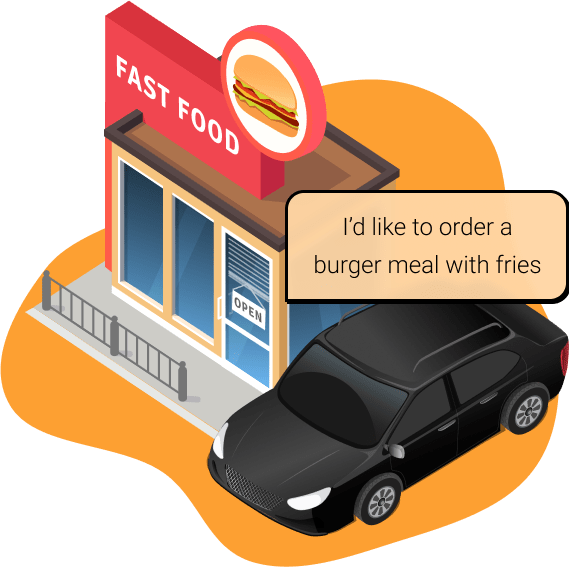
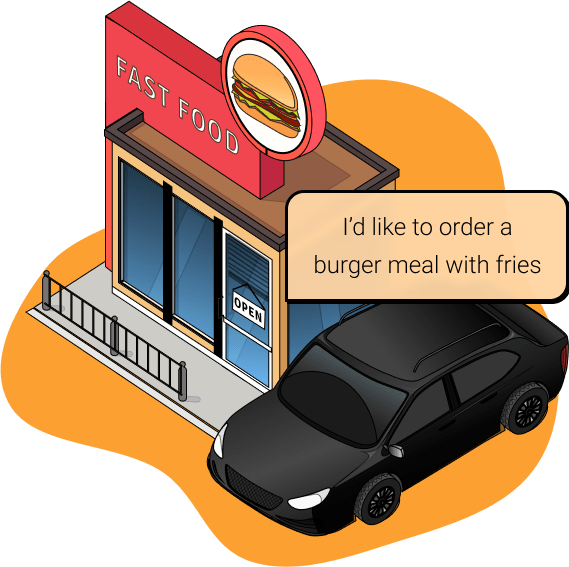
Images and styling updated

diff --git a/style.css b/style.css
@@ -73,19 +73,21 @@ h1 {
   font-size: clamp(2.25rem, 1.783vw + 1.86rem, 4rem);
   line-height: clamp(3.375rem, 1.86vw + 2.968rem, 5.2rem);
   font-weight: 600;
-  width: min(90%, 20ch);
+  max-width: 20ch;
 }
 
 h2 {
-  font-size: clamp(2.25rem, 1.783vw + 1.86rem, 4rem);
-  line-height: clamp(3.375rem, 1.86vw + 2.968rem, 5.2rem);
+  font-size: clamp(1.75rem, 1.235vw + 1.519rem, 3rem);
+  line-height: clamp(2.625rem, 1.259vw + 2.389rem, 3.9rem);
   font-weight: 600;
+  max-width: 28ch;
 }
 
 h3 {
   font-size: clamp(1.5rem, 0.51vw + 1.389rem, 2rem);
   line-height: clamp(2.4rem, 0.408vw + 2.311rem, 2.8rem);
   font-weight: 500;
+  max-width: 17ch;
 }
 
 h4 {
@@ -186,12 +188,14 @@ section {
   grid-template-columns: repeat(auto-fit, minmax(250px, 1fr));
   justify-items: center;
   gap: 2rem;
+  width: 100%;
 }
 
 .grid-2 {
   display: grid;
-  grid-template-columns: repeat(auto-fit, minmax(350px, 1fr));
+  grid-template-columns: repeat(auto-fit, minmax(300px, 1fr));
   gap: 2rem;
+  width: 100%;
 }
 
 .flex-row {
@@ -204,6 +208,10 @@ section {
   justify-self: end;
 }
 
+.grid-center {
+  display: grid;
+  place-items: center;;
+}
 
 
 /* -----------Header Style------------*/

diff --git a/index.html b/index.html
@@ -129,7 +129,7 @@
         </section>
 
         <section id="problems" class="wrapper">
-            <div class="boxed">
+            <div class="boxed grid-center">
                 <h2 class="font-white text-center">Are these <span class="font-red">issues</span> stopping you from
                     providing
                     <span class="font-yellow">good customer experience?</span>
@@ -253,7 +253,7 @@
         </section>
 
         <section id="plan" class="wrapper">
-            <div class="boxed">
+            <div class="boxed grid-center">
                 <h2 class="text-center">Ready to upgrade your Restaurant?
                     <br>
                     We are here to help
